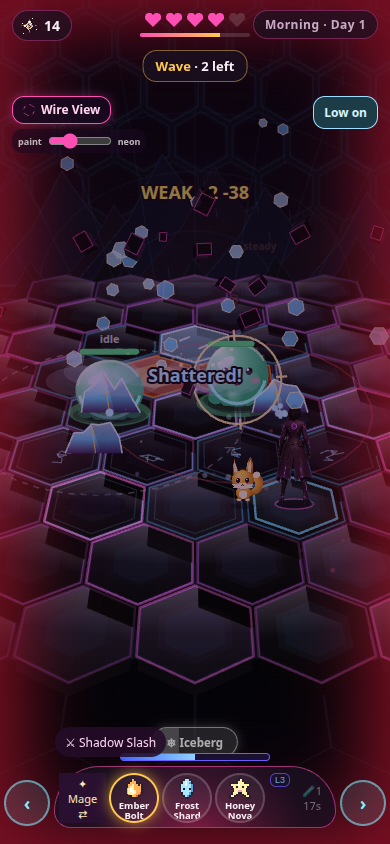
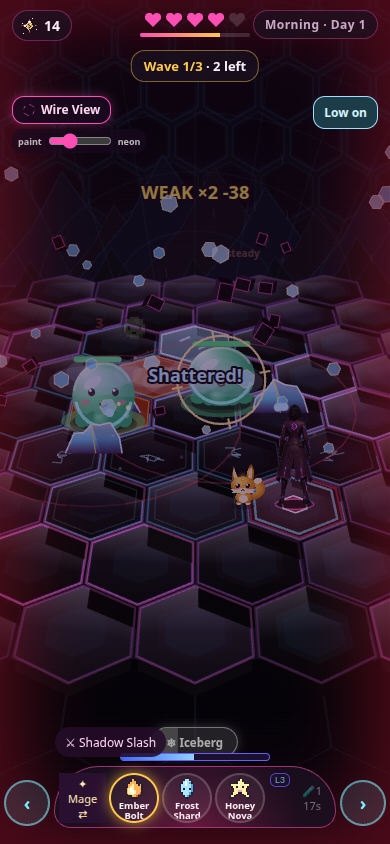
Join the day from wake through a raid clear
The dome action sits clear of the map shortcuts. The raid counts all three waves. A wipe, a second hack claim, and a second pond landing do not pay again. Practice targets do not drop raid loot. The night line names a pond fish. Creature capture stays unavailable.

diff --git a/v7/index.html b/v7/index.html
@@ -34,7 +34,7 @@ font-size:14.5px;line-height:1.35;box-shadow:0 8px 30px rgba(0,0,0,.45),0 0 18px
 #coach .who{font-size:11px;letter-spacing:.12em;color:var(--pink);font-weight:900;text-transform:uppercase;margin-bottom:3px}
 #coach b{color:var(--gold)}
 /* ---------- one contextual action + one glowing hex menu button ---------- */
-#act{position:fixed;left:50%;bottom:calc(104px + var(--sab));transform:translateX(-50%);z-index:8;min-width:210px;padding:14px 22px;border-radius:18px;
+#act{position:fixed;left:50%;bottom:calc(104px + var(--sab));transform:translateX(-50%);z-index:12;min-width:210px;padding:14px 22px;border-radius:18px;
 background:linear-gradient(180deg,#ff6fc4,#d93d98);color:#fff;font-weight:900;font-size:17px;letter-spacing:.01em;box-shadow:0 6px 0 #8f1f62,0 10px 26px rgba(255,79,180,.45);transition:transform .08s}
 #act:active{transform:translateX(-50%) translateY(3px);box-shadow:0 3px 0 #8f1f62,0 6px 18px rgba(255,79,180,.45)}
 #act.gold{background:linear-gradient(180deg,#ffd978,#f0a92e);color:#3a1d05;box-shadow:0 6px 0 #9a5f12,0 10px 26px rgba(255,201,77,.45)}
@@ -128,6 +128,10 @@ input[type=range]{accent-color:var(--pink);width:120px}
 #trainHud button.on{background:#ff4fb4;border-color:#ff9ad2;color:#fff}
 #trainHelpBtn{flex:none !important;padding:7px 10px !important;font-size:12px !important;pointer-events:auto}
 #castFeed{position:fixed;left:10px;right:auto;transform:none;top:calc(258px + var(--sat));bottom:auto;z-index:14;max-width:68vw;pointer-events:none;background:rgba(12,6,16,.92);border:1px solid rgba(255,201,77,.75);border-radius:12px;padding:6px 12px;font-weight:900;font-size:14px;white-space:nowrap;overflow:hidden;text-overflow:ellipsis}
+@media (max-width:520px){
+  body:has(#mapNav:not(.hide)) #act:not(.hide){left:136px;right:8px;width:auto;min-width:0;transform:none;text-align:center}
+  body:has(#mapNav:not(.hide)) #act:not(.hide):active{transform:translateY(3px)}
+}
 @media (max-width:430px){
   #wheel{gap:4px;padding:0 4px}
   .dodge{width:46px;height:46px;font-size:18px;margin-bottom:2px}
@@ -1801,6 +1805,8 @@ function startArena(kind, onDone) {
   Object.assign(AR, { kind, t: 0, phase: 'intro', wave: 0, mobs: [], shots: [], teles: [], lane: 1, px: 0, hurt: 0, castT: 0, cds: [0, 0, 0], ptr: null, novaT: -1, shake: 0, floorDirty: true, share: 0, claimK: 0, drops: [], firstLive: false, idleHint: false, onDone, block: null });
   AR.waves = kind === 'raid' ? RAID_WAVES : HACK_GUARD;
   arenaV7Reset();
+  AR.paid = new Set();
+  AR.claimed = false;
   AR.roomLow = false;
   layoutArenaCam(); G.scene = 'arena';
   syncRoomLow();
@@ -1883,6 +1889,7 @@ function rewind() {
   G.hp = G.maxHp; AR.hpShown = G.hp; renderHearts(); AR.teles = []; AR.shots = []; AR.zones = []; AR.lines = []; AR.inZ = 0; $('#bossCD').classList.add('hide');
   if (AR.phase === 'nodes') { AR.mobs = HACK_NODES.map((s, j) => mkMob(s, j * .35)); AR.share = 0; AR.floorDirty = true; }
   else spawnWave(AR.wave);
+  AR.objT = null;
 }
 function damage(m, dmg, sp, focus) {
   m.hp -= dmg; m.fl = 1; if (sp && sp.slow) m.slow = sp.slow; if (!m.aggro) { m.aggro = true; m.atkT = 1.1 * PACE(); }
@@ -1891,9 +1898,19 @@ function damage(m, dmg, sp, focus) {
   wirePulse(m.x, m.y, .6, 'arena');
   if (m.hp <= 0) { m.state = 'dying'; m.st = 0; AR.zones = AR.zones.filter(z => z.mob !== m || z.t >= z.warn); AR.lines = AR.lines.filter(l => l.mob !== m || l.fired); if (AR.lock === m) AR.lock = null; if (AR.boss === m) AR.boss = null; }
 }
+function payKey(m) {
+  const at = m.spec && m.spec.at ? m.spec.at.join(',') : m.k;
+  return (AR.kind || '') + ':' + AR.wave + ':' + m.k + ':' + at;
+}
 function cubesFor(m) {
   const [X, Y, f] = proj(AR.cam, m.x, m.y), h = MOBART[m.art].h * m.D.r * AR.cam.hz * f * 1.6;
-  cyberBurst(X, Y, h, f, mobElem(m)); // Tron-style neon cybercube (was: black drawCube fx)
+  cyberBurst(X, Y, h, f, mobElem(m));
+  if (m.dummy || m.paid) return;
+  m.paid = true;
+  if (!AR.paid) AR.paid = new Set();
+  const key = payKey(m);
+  if (AR.paid.has(key)) return;
+  AR.paid.add(key);
   SFX.cube(); buzz(15); G.day.mobs++;
   m.D.drop.forEach((d, i) => { addItem(d); popText(X, Y - h - 16 - i * 16, '+' + ITEMS[d].n, RAR[ITEMS[d].r], 14); AR.drops.push(d); lootPop(X, Y - h * .5, d, i); });
   addAether(2);
@@ -1918,6 +1935,7 @@ function startNodes() {
 }
 function hackDone() { AR.phase = 'claim'; AR.claimK = 0; AR.claimed = false; AR.share = 1; AR.floorDirty = true; SFX.spawn(); }
 function claimEnd() {
+  if (AR.claimed) return;
   AR.claimed = true; SFX.win(); banner('Spot hacked!', 'blue · fills in over time'); G.day.hack = true; G.hackFill = .35; addItem('spot'); G.caps += 1; addAether(3);
   toast('+1 bottle cap (hack bonus)', 'cap'); setObj('<b>Hack</b> · the pond spot is yours');
   coach('The spot skins in <b>your colour</b>, starting faint and filling over time. Fish it later with bait.');
@@ -2029,7 +2047,7 @@ function punchBlock() {
   const b = AR.block; b.k = .001; SFX.punch(); buzz([30, 20, 30]); AR.shake = SET.cozy ? 0 : .4;
   const [X, Y, f] = proj(AR.cam, b.x, b.y);
   for (let i = 0; i < 16; i++) fx({ kind: 'shard', x: X, y: Y - 40 * f, vx: (Math.random() - .5) * 360, vy: -100 - Math.random() * 260, g: 520, col: i % 2 ? '#ffc94d' : RAR[b.rar], size: (5 + Math.random() * 5) * f, rot: Math.random() * 3, vr: (Math.random() - .5) * 10, life: 1.2 });
-  AR.phase = 'wave'; spawnWave(0); setObj('<b>Raid</b> · wave 1 of 2');
+  AR.phase = 'wave'; spawnWave(0); AR.objT = null;
   coach('Honey rains onto the floor panels. <b>Bright</b> panels = mobs that come at you. <b>Dim</b> panel = an idle mob you can pull later. Wireframes can’t be hit yet.', 7500);
 }
 
@@ -2966,9 +2984,10 @@ function mobHitWall(m, dt) { if (m.root > 0) return;
 /* ---------- objective banner follows the fight ---------- */
 function arenaObjective() {
   let t, b;
-  if (AR.block) t = '<b>Raid</b> · punch the honey block';
+  if (AR.block && !AR.block.k) t = '<b>Raid</b> · punch the honey block';
+  else if (AR.phase === 'clear') t = '<b>Clear!</b> · grab the loot';
   else if ((b = AR.mobs.find(m => m.tier === 'boss' && m.state !== 'dying' && m.state !== 'gone'))) t = b.state === 'live' ? `<b>Boss</b> · ${b.D.n}: dodge, then break it` : `<b>Boss</b> · ${b.D.n} incoming`;
-  else { const n = AR.mobs.filter(m => m.state === 'live' || m.state === 'load' || m.state === 'skin' || m.state === 'panel').length; t = AR.phase === 'clear' ? '<b>Clear!</b> · grab the loot' : n ? `<b>Wave</b> · ${n} left` : null; }
+  else { const n = AR.mobs.filter(m => m.state === 'live' || m.state === 'load' || m.state === 'skin' || m.state === 'panel').length; const waves = AR.waves && AR.waves.length; t = n && waves ? `<b>Wave ${AR.wave + 1}/${waves}</b> · ${n} left` : n ? `<b>Wave</b> · ${n} left` : null; }
   if (t && t !== AR.objT) { AR.objT = t; setObj(t); }
 }
 
@@ -3441,7 +3460,9 @@ function renderCraftUI() {
   $('#craftHint').innerHTML = G.bag.gel && G.bag.pollen ? 'Try <b>Slime Gel + Pollen</b> → Honey Bait. Fish bite faster and rarer.' : 'Pick two ingredients from your bag. Unknown pairs make <b>Aether Mush</b>.';
 }
 function brewDone() {
+  if (CR.sel.length !== 2) return;
   const [a, b] = CR.sel, res = recipeFor(a, b);
+  if ((G.bag[a] || 0) < 1 || (G.bag[b] || 0) < 1 || G.aether < 2) return;
   G.bag[a]--; G.bag[b]--; addItem(res); G.aether -= 2; addAether(0, true); G.day.crafted = res; CR.pop = 1; CR.sel = []; CR.brewing = false; CR.k = 0;
   SFX.win(); buzz(30); toast(`Crafted ${ITEMS[res].n}`, res); renderCraftUI();
   $('#craftHint').innerHTML = `<b>${ITEMS[res].n}</b> crafted! ${res === 'bait' ? 'It is now on your line.' : ''} Close the Cook Nook when you’re ready.`;
@@ -3473,7 +3494,7 @@ function drawBall(T, dt) {
 
 /* ===================== fishing: one cast ===================== */
 const FI = { phase: 'aim', t: 0, power: 0, grade: '', bx: 0, by: 0, biteAt: 0, nib: false, beat: 0, hits: 0, ring: 0, rt: 0, fish: null, msg: '', win: 0 };
-function openFish() { Object.assign(FI, { phase: 'aim', t: 0, power: 0, pw: 0, charging: false, ct: 0, grade: '', beat: 0, hits: 0, fish: null }); $('#fishBtn').classList.add('hide'); fishMsg('<b>Hold</b> to charge your cast, <b>release</b> in the <b style="color:var(--gold)">gold zone</b>'); $('#fishTitle').textContent = G.fishBait === 'bait' ? 'Fishing · Honey Bait on' : 'Fishing'; openModal('fishM'); }
+function openFish() { Object.assign(FI, { phase: 'aim', t: 0, power: 0, pw: 0, charging: false, ct: 0, grade: '', beat: 0, hits: 0, fish: null, paid: false }); $('#fishBtn').classList.add('hide'); fishMsg('<b>Hold</b> to charge your cast, <b>release</b> in the <b style="color:var(--gold)">gold zone</b>'); $('#fishTitle').textContent = G.fishBait === 'bait' ? 'Fishing · Honey Bait on' : 'Fishing'; openModal('fishM'); }
 function fishMsg(h) { $('#fishMsg').innerHTML = h; }
 const SWEET = .7;
 // v7 field slice: hold-to-charge cast (the standard confirm). the needle fills while held, eases back if over-held
@@ -3497,12 +3518,15 @@ function nextBeat(word) {
   else FI.rt = -.6;
 }
 function landFish() {
+  if (FI.paid || FI.phase === 'catch') return;
+  FI.paid = true;
   const gs = { Perfect: 2, Great: 1, Good: 0 }[FI.grade] || 0, sc = gs + (G.fishBait === 'bait' ? 1.5 : 0) + (FI.hits - 2) + rng() * 1.5;
   const r = sc >= 4.2 ? 3 : sc >= 2.6 ? 2 : sc >= 1.1 ? 1 : 0;
   const names = ['Minnow Pip', 'Honeyfin Koi', 'Aether Betta', 'Sunscale Carp'];
   const cap = r >= 2 || rng() < .25;
   FI.fish = { n: names[r], r, cm: Math.round(18 + r * 9 + rng() * 8), cap };
   FI.phase = 'catch'; FI.t = 0; SFX.win(); buzz([20, 30, 60]);
+  if (!G.day.castGrade && FI.grade) G.day.castGrade = FI.grade;
   if (G.fishBait === 'bait') { G.bag.bait = Math.max(0, (G.bag.bait || 0) - 1); }
   addItem('fish'); G.day.fish = FI.fish; addAether(3); if (cap) { G.caps++; toast('The fish was holding a bottle cap!', 'cap'); }
   fishMsg(`<span style="color:${RAR[r]}">${RARN[r]}</span> · <b>${FI.fish.n}</b> · ${FI.fish.cm} cm · kept the pond's blue grid colour`);
@@ -3621,11 +3645,13 @@ function applyHand() { $('#wheel').classList.toggle('left', SET.hand === 'left')
 function startDay() {
   audioInit(); $('#title').classList.add('out'); setTimeout(() => $('#title').classList.add('hide'), 600);
   $('#hud').classList.remove('hide'); $('#wirePanel').classList.remove('hide'); $('#menuBtn').classList.remove('hide'); addAether(0, true);
-  G.scene = 'map'; G.step = 1; G.day.wakeT = 0; setTime(0); G.day.aStart = G.aether;
+  G.scene = 'map'; G.step = 1; G.day.wakeT = 0; G.day.woke = false; setTime(0); G.day.aStart = G.aether;
   setObj('<b>Dawn</b> · wake up at home');
   setTimeout(() => { coach('Good morning! You wake in your <b>home hex</b>, the hub of your day. The bees left you <b>Pollen</b>. Your house stays put as your <b>fast-travel home</b>; today you go on foot.'); setAct('Step outside', wakeUp, true); }, 700);
 }
 function wakeUp() {
+  if (G.day.woke) return;
+  G.day.woke = true;
   MAP.avOut = true; MAP.avT = 0; SFX.hop(); ripple(tileAt(0, 0)); wirePulse(0, 0, 1.2, 'map'); toast('+1 Pollen from the hive', 'pollen'); MAP.trail.add(tkey(0, 0));
   G.step = 2; setTime(.15); setObj('<b>Walk</b> · to the Raid Dome');
   coach('<b>Tap a tile</b> to walk there, <b>drag</b> from yourself to step one hex, or use the <b>arrow keys</b>. Follow the gold dots to the dome. The wire grid underfoot pulses as you go.', 7000);
@@ -3706,7 +3732,7 @@ function endDay() {
    <div>Dodges<b>${d.dodges}</b>${d.lineDodges} bullet lines · ${d.zoneTime.toFixed(1)}s in red${d.rewinds ? ` · ${d.rewinds} Return by Death` : ''}</div>
    <div>Pond spot<b>${d.hack ? 'Hacked' : '—'}</b>fills to ${fill}% by tomorrow</div>
    <div>Crafted<b>${d.crafted ? ITEMS[d.crafted].n : '—'}</b>in the Cook Nook</div>
-   <div>Catch<b style="color:${f ? RAR[f.r] : '#fff'}">${f ? f.n : '—'}</b>${f ? `${RARN[f.r]} · ${f.cm} cm · ${d.castGrade} cast` : ''}</div>
+   <div>Fish<b style="color:${f ? RAR[f.r] : '#fff'}">${f ? f.n : '—'}</b>${f ? `pond · ${RARN[f.r]} · ${f.cm} cm · ${d.castGrade} cast` : 'pond cast, not a creature'}</div>
    <div>Aether<b>${G.aether}</b>${G.aether - d.aStart >= 0 ? '+' : ''}${G.aether - d.aStart} today · bees refill overnight</div>
    <div>Bottle caps<b>${G.caps}</b>rare second currency</div>
   </div>

diff --git a/v7/HANDOFF.md b/v7/HANDOFF.md
@@ -8,7 +8,7 @@ Live `/v7/` on main is unchanged. Nothing here was merged or deployed.
 
 ## Training yard ground (unpublished test)
 
-The training yard, not the map and not a map raid, draws one continuous stone floor. The plates overlap so the idle gaps close, and cracks, pebbles, and a few wet marks stay on that stone. Landscape and far tiles use fewer marks. Wide short screens pack the yard buttons into a left rail and a right stack. The cast line sits left of the spell ring, not on it and not on the dodge. Dummy names keep their hit points. On a wide short screen they stack beside the posts, off the rings, the round banner, and the avatar. Portrait dodge buttons stay fully on screen. A bullet line is an incoming gun telegraph or the player's aim shot, not the item line. The cell drill is a reload cartridge, not a capture. The hex grid underneath is the same one. While a cast is aimed, the selected hex and the cells that spell will hit light up before release. The standing hex, danger zones, and live field colors stay visible. A slash still cuts one hex at a time. Each risen cut shows its own lit interior, and fire or ice on that hex is the real field state. A negative hex index in the gully rubble used to throw and stop the rest of the cut from drawing; that index now wraps. Step, lava, ice, mob block, timer, and reset rules are unchanged. This was checked in Chrome on the desktop, not on a phone.
+The training yard, not the map and not a map raid, draws one continuous stone floor. The plates overlap so the idle gaps close, and cracks, pebbles, and a few wet marks stay on that stone. Landscape and far tiles use fewer marks. Wide short screens pack the yard buttons into a left rail and a right stack. The cast line sits left of the spell ring, not on it and not on the dodge. Dummy names keep their hit points. On a wide short screen they stack beside the posts, off the rings, the round banner, and the avatar. Portrait dodge buttons stay fully on screen. A bullet line is an incoming gun telegraph or the player's aim shot, not the item line. The cell drill is a reload cartridge, not a capture. Begin the day is the one playable loop: wake, walk to the dome, clear the raid, and the night summary can be played again from a reload. A wipe restores the wave and does not pay those drops a second time. The summary line is the pond fish. Creature capture is not in this loop. The hex grid underneath is the same one. While a cast is aimed, the selected hex and the cells that spell will hit light up before release. The standing hex, danger zones, and live field colors stay visible. A slash still cuts one hex at a time. Each risen cut shows its own lit interior, and fire or ice on that hex is the real field state. A negative hex index in the gully rubble used to throw and stop the rest of the cut from drawing; that index now wraps. Step, lava, ice, mob block, timer, and reset rules are unchanged. This was checked in Chrome on the desktop, not on a phone.
 
 ## Casting disc in first person
 
